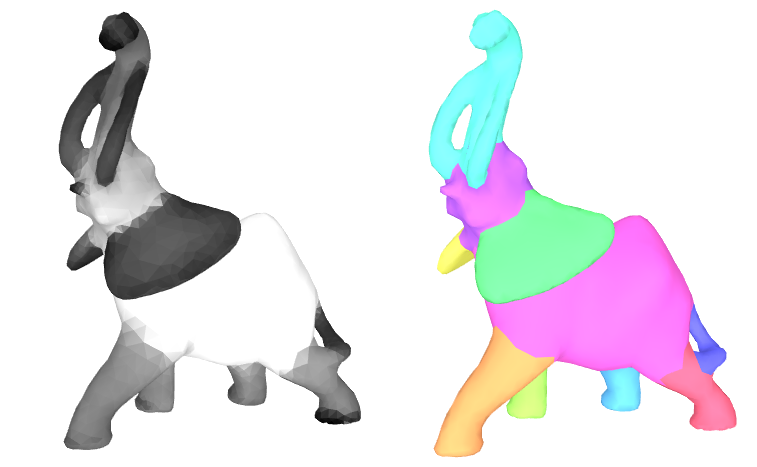
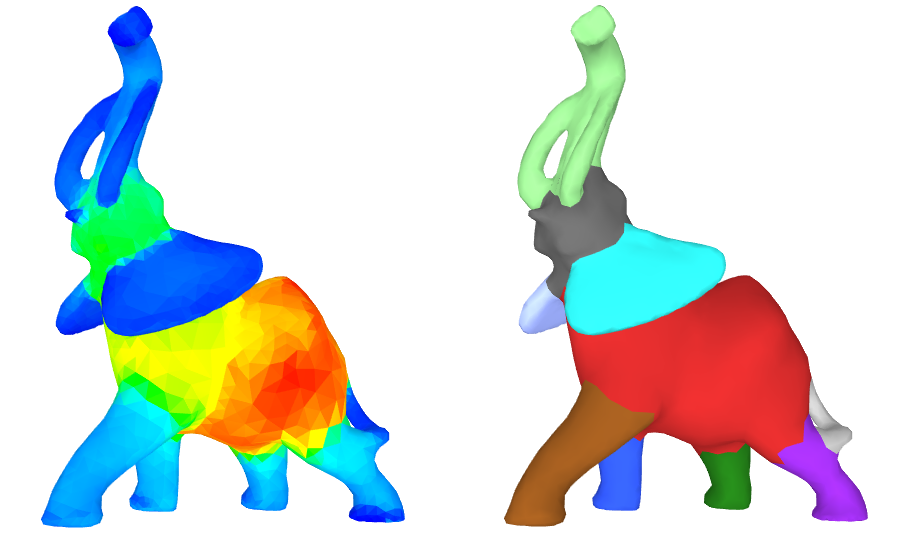
User manual is updated. Code review (unused includes are removed) (Added an experimental filtering)

diff --git a/Surface_mesh_segmentation/include/CGAL/mesh_segmentation.h b/Surface_mesh_segmentation/include/CGAL/mesh_segmentation.h
@@ -20,11 +20,12 @@ namespace CGAL {
  *  - Smoothed with bilateral filtering.
  *  - Linearly normalized between [0,1].
  *
+ * @pre parameter @a polyhedron should consist of triangles.
  * @param polyhedron `CGAL Polyhedron` on which SDF values are computed
  * @param[out] sdf_values <a href="http://www.boost.org/doc/libs/release/libs/property_map/doc/ReadWritePropertyMap.html">`ReadWritePropertyMap`</a>  with `Polyhedron::Facet_const_handle` as key and `double` as value type
  * @param cone_angle opening angle for cone, expressed in radians
  * @param number_of_rays number of rays picked from cone for each facet
- * @return the minimum and maximum SDF values before linear normalization
+ * @return minimum and maximum SDF values before linear normalization
  */
 template <class Polyhedron, class SDFPropertyMap>
 std::pair<double, double> 
@@ -34,7 +35,7 @@ sdf_values_computation(const Polyhedron& polyhedron,
                         int number_of_rays = 25)
 {
     internal::Surface_mesh_segmentation<Polyhedron> algorithm(polyhedron);
-    return algorithm.calculate_sdf_values(sdf_values, cone_angle, number_of_rays);
+    return algorithm.calculate_sdf_values(cone_angle, number_of_rays, sdf_values);
 }
 
 /*!
@@ -44,8 +45,9 @@ sdf_values_computation(const Polyhedron& polyhedron,
  * Formally, a segment is a set of connected facets which are placed under same cluster. 
  *
  * Note that there is no direct relation between the parameter @a number_of_levels
- * and the number of segments. However, a large number of levels is likely to result in detailed segmentation of the mesh with large number of segments.
+ * and number of segments. However, large number of clusters likely to result in detailed segmentation of the mesh with large number of segments.
  *
+ * @pre parameter @a polyhedron should consist of triangles.
  * @param polyhedron `CGAL Polyhedron` on which segmentation is applied
  * @param sdf_values <a href="http://www.boost.org/doc/libs/release/libs/property_map/doc/ReadablePropertyMap.html">`ReadablePropertyMap`</a>  with `Polyhedron::Facet_const_handle` as key and `double` as value type
  * @param[out] segment_ids <a href="http://www.boost.org/doc/libs/release/libs/property_map/doc/ReadWritePropertyMap.html">`ReadWritePropertyMap`</a> with `Polyhedron::Facet_const_handle` as key and `int` as value type
@@ -59,12 +61,12 @@ surface_mesh_segmentation_from_sdf_values(const Polyhedron& polyhedron,
                                            SDFPropertyMap sdf_values, 
                                            SegmentPropertyMap segment_ids,
                                            int number_of_levels = 5, 
-                                           double smoothing_lambda = 0.23)
+                                           double smoothing_lambda = 0.26)
 {
     smoothing_lambda = (std::max)(0.0, (std::min)(1.0, smoothing_lambda)); // clip into [0-1]
     
     internal::Surface_mesh_segmentation<Polyhedron> algorithm(polyhedron);
-    return algorithm.partition(sdf_values, segment_ids, number_of_levels, smoothing_lambda);
+    return algorithm.partition(number_of_levels, smoothing_lambda, sdf_values, segment_ids);
 }
 
 /*!
@@ -77,6 +79,7 @@ surface_mesh_segmentation_from_sdf_values(const Polyhedron& polyhedron,
  * it is wise to first compute SDF values using CGAL::sdf_values_computation, 
  * and then call CGAL::surface_mesh_segmentation_from_sdf_values with the same SDF values.
  *
+ * @pre parameter @a polyhedron should consist of triangles.
  * @param polyhedron `CGAL Polyhedron` on which segmentation is applied
  * @param[out] segment_ids <a href="http://www.boost.org/doc/libs/release/libs/property_map/doc/ReadWritePropertyMap.html">`ReadWritePropertyMap`</a> with `Polyhedron::Facet_const_handle` as key and `int` as value type
  * @param number_of_rays number of rays picked from cone for each facet
@@ -91,7 +94,7 @@ surface_mesh_segmentation(const Polyhedron& polyhedron,
                            double cone_angle = 2.0 / 3.0 * CGAL_PI,
                            int number_of_rays = 25,
                            int number_of_levels = 5, 
-                           double smoothing_lambda = 0.23)
+                           double smoothing_lambda = 0.26)
 {
     smoothing_lambda = (std::max)(0.0, (std::min)(1.0, smoothing_lambda)); // clip into [0-1]
     

diff --git a/Surface_mesh_segmentation/include/CGAL/internal/Surface_mesh_segmentation/Disk_samplers.h b/Surface_mesh_segmentation/include/CGAL/internal/Surface_mesh_segmentation/Disk_samplers.h
@@ -45,11 +45,9 @@ namespace internal {
  */
 class Vogel_disk_sampling
 {
-private:
-    typedef boost::tuple<double, double, double> Disk_sample;
-    typedef std::vector<Disk_sample>             Disk_samples_list;
-    
+private:    
     bool uniform;
+    
 public:    
     Vogel_disk_sampling() : uniform(false) { }
     /**
@@ -61,8 +59,12 @@ public:
      *   - get<1> = coordinate-y
      *   - get<2> = weight (proportional to angle between cone-normal)
      */
-    void operator()(int number_of_points, double cone_angle, Disk_samples_list& samples) const
+    void operator()(int number_of_points, double cone_angle,
+                    std::vector<boost::tuple<double, double, double> >& samples) const
     {
+        typedef boost::tuple<double, double, double> Disk_sample;
+        typedef std::vector<Disk_sample>             Disk_samples_list;
+    
         const double golden_ratio = 3.0 - std::sqrt(5.0);
         
         if(uniform)
@@ -123,9 +125,6 @@ public:
  */
 class Polar_disk_sampling
 {
-private:
-    typedef boost::tuple<double, double, double> Disk_sample;
-    typedef std::vector<Disk_sample>             Disk_samples_list;
 public:    
     /**
      * Samples points from unit-disk.
@@ -139,8 +138,12 @@ public:
      * Note:
      * Returned samples size = \f$ \lfloor \sqrt {number\_of\_points} \rfloor ^ 2 \f$
      */
-    void operator()(int number_of_points, double cone_angle, Disk_samples_list& samples) const
+    void operator()(int number_of_points, double cone_angle,
+                    std::vector<boost::tuple<double, double, double> >& samples) const
     {
+        typedef boost::tuple<double, double, double> Disk_sample;
+        typedef std::vector<Disk_sample>             Disk_samples_list;
+        
         const int number_of_points_sqrt = static_cast<int>(std::sqrt(
             static_cast<double>(number_of_points)));
         const double length_of_normal = 1.0 / tan(cone_angle / 2.0);
@@ -189,9 +192,6 @@ public:
  */
 class Concentric_disk_sampling
 {
-private:
-    typedef boost::tuple<double, double, double> Disk_sample;
-    typedef std::vector<Disk_sample>             Disk_samples_list;
 public:    
     /**
      * Samples points from unit-disk.
@@ -205,8 +205,12 @@ public:
      * Note:
      * Returned samples size = \f$ \lfloor \sqrt {number\_of\_points} \rfloor ^ 2 \f$
      */
-    void operator()(int number_of_points, double cone_angle, Disk_samples_list& samples) const
+    void operator()(int number_of_points, double cone_angle,
+                    std::vector<boost::tuple<double, double, double> >& samples) const
     {
+        typedef boost::tuple<double, double, double> Disk_sample;
+        typedef std::vector<Disk_sample>             Disk_samples_list;
+        
         const int number_of_points_sqrt = static_cast<int>(std::sqrt(
             static_cast<double>(number_of_points)));
         const double length_of_normal = 1.0 / tan(cone_angle / 2.0);

diff --git a/Surface_mesh_segmentation/include/CGAL/internal/Surface_mesh_segmentation/SDF_calculation.h b/Surface_mesh_segmentation/include/CGAL/internal/Surface_mesh_segmentation/SDF_calculation.h
@@ -21,21 +21,6 @@ namespace internal {
 
 /**
  * @brief Responsible for calculating Shape Diameter Function over surface of the mesh.
- *
- * Usage:
- * @code
- *  // template parameters 
- *  // Polyhedron          : CGAL Polyhedron (type of the mesh)
- *  // Vogel_disk_sampling : Functor type which samples rays from cone (for other functors, or for writing your own method, check Disk_samplers.h)
- * 
- *  // function parameters
- *  // mesh       : CGAL Polyhedron to calculate SDF
- *  // sdf_values : Writable Property-Map where results are stored
- *                
- *  SDF_calculation<Polyhedron, Vogel_disk_sampling>().
- *      calculate_sdf_values(mesh, sdf_values, (2.0 / 3.0) * CGAL_PI, 25);
- * @endcode
- *
  * @see Disk_samplers.h
  */
 template <class Polyhedron, class DiskSampling = Vogel_disk_sampling>
@@ -88,25 +73,24 @@ public:
      * Calculates SDF values for each facet, and stores them in @a sdf_values. Note that sdf values are neither smoothed nor normalized.
      * @pre parameter @a mesh should consist of triangles.
      * @param mesh `CGAL Polyhedron` on which SDF values are computed
-     * @param[out] sdf_values `WritablePropertyMap` with `Polyhedron::Facet_const_handle` as key and `double` as value type
      * @param cone_angle opening angle for cone, expressed in radians
      * @param number_of_rays number of rays picked from cone for each facet  
+     * @param[out] sdf_values `WritablePropertyMap` with `Polyhedron::Facet_const_handle` as key and `double` as value type
      */
     template <class FacetValueMap>
-    void calculate_sdf_values(const Polyhedron& mesh, FacetValueMap sdf_values, double cone_angle, int number_of_rays)
+    void calculate_sdf_values(const Polyhedron& mesh, double cone_angle, int number_of_rays, FacetValueMap sdf_values)
     {
         this->cone_angle = cone_angle;
         
         const int sparse_ray_count = number_of_rays;
         const int dense_ray_count = sparse_ray_count * 2;
+        
         DiskSampling()(sparse_ray_count, cone_angle, disk_samples_sparse);        
         DiskSampling()(dense_ray_count, cone_angle, disk_samples_dense);
         
         Tree tree(mesh.facets_begin(), mesh.facets_end());        
         for(Facet_const_iterator facet_it = mesh.facets_begin(); facet_it != mesh.facets_end(); ++facet_it)
         {
-            //CGAL_precondition(facet_it->is_triangle()); //Mesh should contain triangles.
-             
             double sdf = calculate_sdf_value_of_facet(facet_it, tree, disk_samples_sparse); 
             sdf_values[facet_it] = sdf;                   
         }        

diff --git a/Polyhedron/demo/Polyhedron/Polyhedron_demo_mesh_segmentation_plugin.cpp b/Polyhedron/demo/Polyhedron/Polyhedron_demo_mesh_segmentation_plugin.cpp
@@ -112,7 +112,7 @@ void Polyhedron_demo_mesh_segmentation_plugin::init_color_map_sdf()
     for(int i = 0; i <= 255; ++i)
     {
         if(i > 128 && i <= 192) { r = static_cast<int>( ((i - 128) / (192.0 - 128)) * 255 ); }        
-        if(i > 0 && i <= 64)    { g = static_cast<int>( ((i) / (64.0)) * 255 ); }
+        if(i > 0 && i <= 98)    { g = static_cast<int>( ((i) / (98.0)) * 255 ); }
         if(i > 191 && i <=255)  { g = 255 - static_cast<int>( ((i - 191) / (255.0 - 191)) * 255 ); }
         if(i > 64 && i <= 127)  { b = 255 - static_cast<int>( ((i - 64) / (127.0 - 64)) * 255 ); }
         color_map_sdf[i] = QColor(r, g, b);        
@@ -139,9 +139,8 @@ void Polyhedron_demo_mesh_segmentation_plugin::init_color_map_segmentation()
     color_map_segmentation.push_back(QColor("#5c3566"));
     */
     
-    
-    color_map_segmentation.push_back(QColor( 87, 87, 87)); 
     color_map_segmentation.push_back(QColor( 173, 35, 35)); 
+    color_map_segmentation.push_back(QColor( 87, 87, 87));     
     color_map_segmentation.push_back(QColor( 42, 75, 215)); 
     color_map_segmentation.push_back(QColor( 29, 105, 20)); 
     color_map_segmentation.push_back(QColor( 129, 74, 25)); 
@@ -387,7 +386,7 @@ void Polyhedron_demo_mesh_segmentation_plugin::colorize_segmentation(
     }
     for(int i = 0; i <= max_segment; ++i)   
     {
-        QColor aColor = color_map_segmentation[i % color_map_segmentation.size()]; 
+        QColor aColor = color_map_segmentation[(max_segment - i) % color_map_segmentation.size()]; 
         color_vector.push_back(aColor);     
     }    
 }

diff --git a/Surface_mesh_segmentation/include/CGAL/internal/Surface_mesh_segmentation/Surface_mesh_segmentation.h b/Surface_mesh_segmentation/include/CGAL/internal/Surface_mesh_segmentation/Surface_mesh_segmentation.h
@@ -138,13 +138,13 @@ Surface_mesh_segmentation(const Polyhedron& mesh)
 // Use these two functions together
 template <class SDFPropertyMap>
 std::pair<double, double> 
-calculate_sdf_values(SDFPropertyMap sdf_pmap, double cone_angle,
-     int number_of_rays)
+calculate_sdf_values(double cone_angle,
+     int number_of_rays, SDFPropertyMap sdf_pmap)
 {
     SEG_DEBUG(Timer t)
     SEG_DEBUG(t.start())
         
-    SDF_calculation_class().calculate_sdf_values(mesh, sdf_pmap, cone_angle, number_of_rays);
+    SDF_calculation_class().calculate_sdf_values(mesh, cone_angle, number_of_rays, sdf_pmap);
     
     SEG_DEBUG(std::cout << t.time() << std::endl)
     
@@ -157,8 +157,8 @@ calculate_sdf_values(SDFPropertyMap sdf_pmap, double cone_angle,
 }
 
 template <class FacetSegmentMap, class SDFPropertyMap>
-int partition(SDFPropertyMap sdf_pmap, FacetSegmentMap segment_pmap, int number_of_centers,
-     double smoothing_lambda)
+int partition(int number_of_centers, double smoothing_lambda, 
+    SDFPropertyMap sdf_pmap, FacetSegmentMap segment_pmap)
 {
     smoothing_lambda = (std::max)(0.0, (std::min)(1.0, smoothing_lambda)); // clip into [0-1]
     smoothing_lambda *= CGAL_SMOOTHING_LAMBDA_MULTIPLIER; // scale it into meaningful range for graph-cut

diff --git a/Surface_mesh_segmentation/include/CGAL/internal/Surface_mesh_segmentation/Filters.h b/Surface_mesh_segmentation/include/CGAL/internal/Surface_mesh_segmentation/Filters.h
@@ -4,6 +4,8 @@
 /** 
  * @file Filters.h
  * @brief This file contains 2 filtering methods, which can be used as a template parameter for CGAL::internal::Surface_mesh_segmentation.
+ * 
+ * Also filtering methods can be used by their-own for smoothing associated values to `CGAL Polyhedron`.
  */
 #include <vector>
 #include <map>
@@ -41,6 +43,7 @@ public:
     {    
         typedef typename Polyhedron::Facet_const_handle Facet_const_handle; 
         typedef typename Polyhedron::Facet_const_iterator Facet_const_iterator; 
+        
         std::vector<double> smoothed_values; // holds smoothed values
         smoothed_values.reserve(mesh.size_of_facets());    
         
@@ -113,6 +116,7 @@ public:
     {     
         typedef typename Polyhedron::Facet_const_handle Facet_const_handle; 
         typedef typename Polyhedron::Facet_const_iterator Facet_const_iterator; 
+        
         std::vector<double> smoothed_values;
         smoothed_values.reserve(mesh.size_of_facets());    
         for(Facet_const_iterator facet_it = mesh.facets_begin(); facet_it != mesh.facets_end(); ++facet_it)
